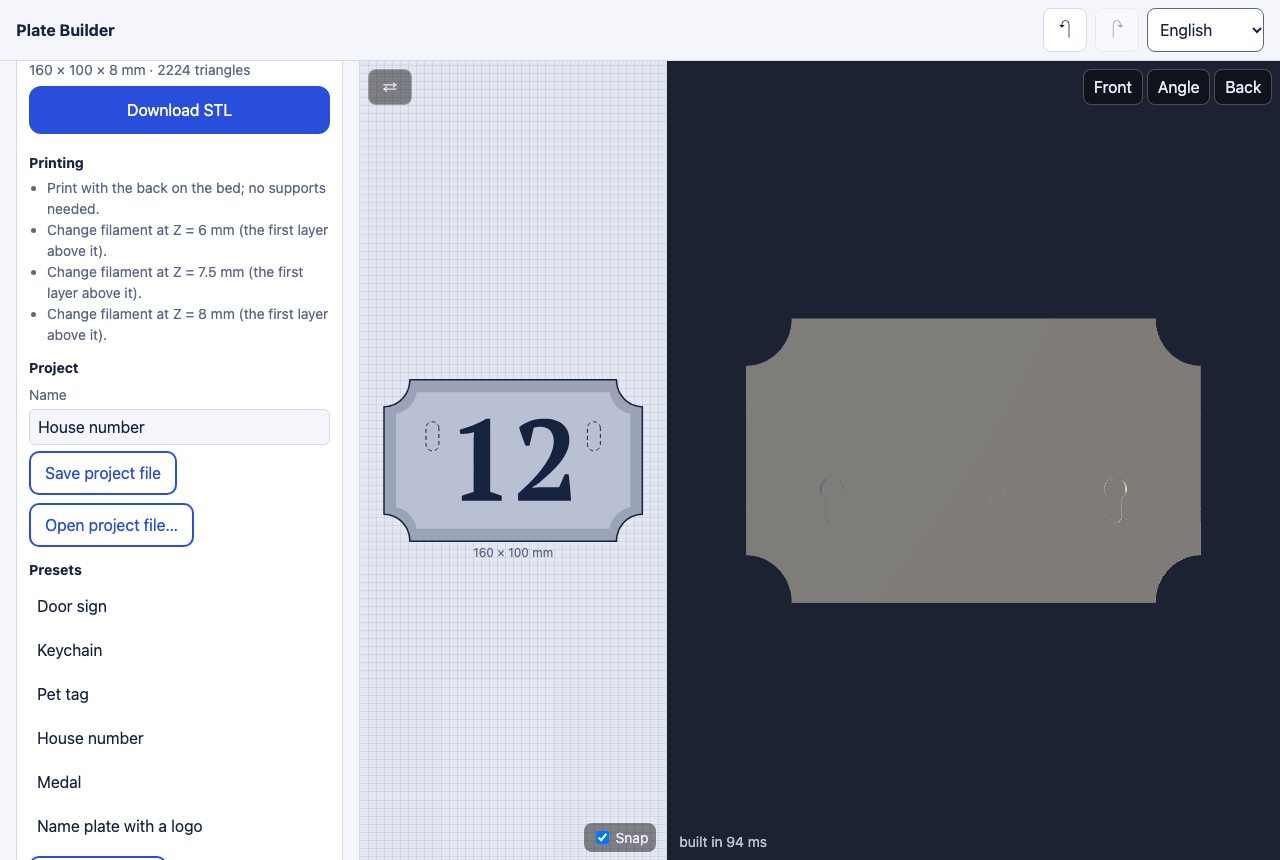
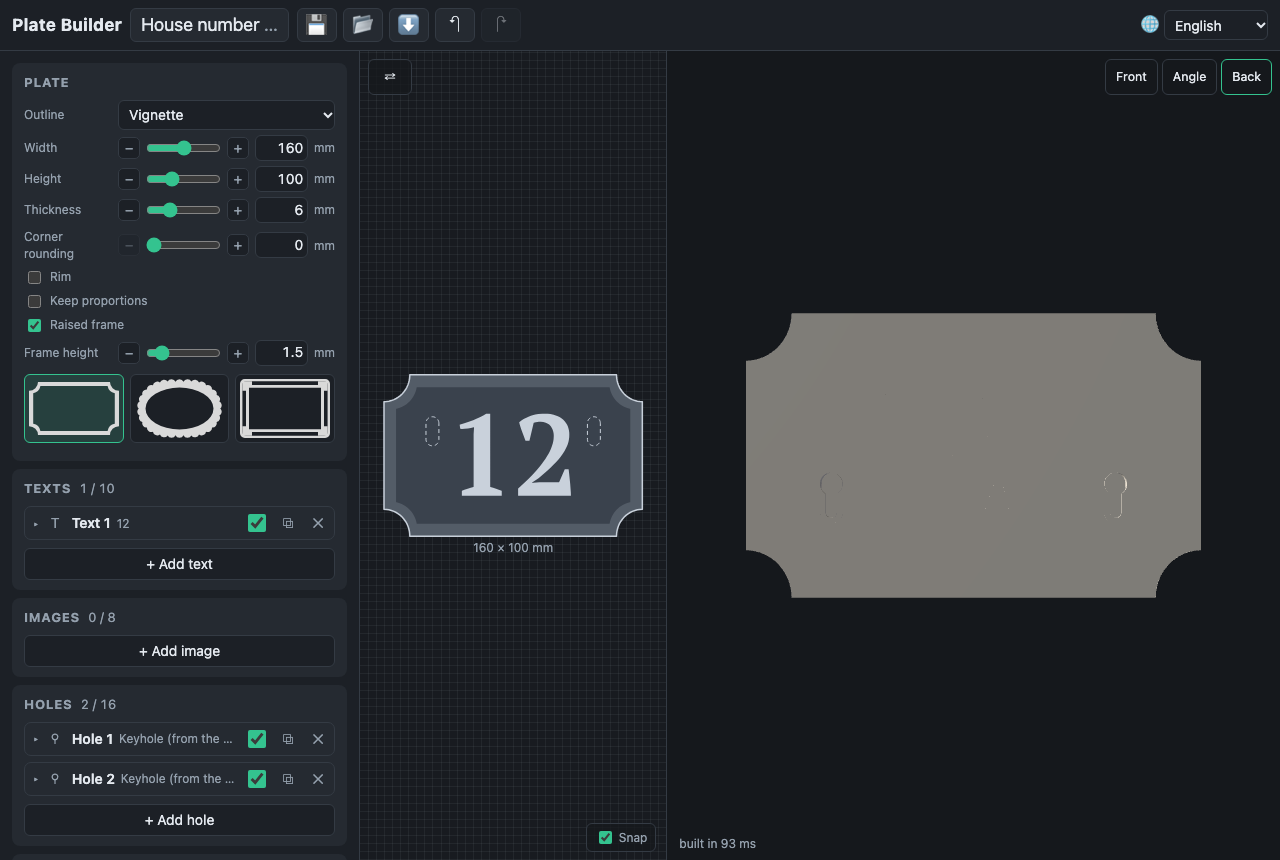
D6: docs for the new look
The spec's layout and panel, the guides (the top bar, the groups, − and +),
every picture re-shot with snap.mjs (the commands are in the plan),
AGENTS.md's layout lines, the plan's deviations.

diff --git a/plans/PLAN-DESIGN.md b/plans/PLAN-DESIGN.md
@@ -156,6 +156,21 @@ unit` in one grid line; the label column ~96 px (Russian and Ukrainian
   an element's controls in its group); every picture in `docs/images/`
   re-shot with `scripts/snap.mjs` (`--select` opens the element's card in
   its group; `--panel` scrolls to it).
+- The pictures, repeatable:
+
+  ```sh
+  node scripts/snap.mjs --out docs/images/door-sign.png --preset door-sign
+  node scripts/snap.mjs --out docs/images/export.png --preset door-sign --panel '#exportCard'
+  node scripts/snap.mjs --out docs/images/hebrew.png --preset door-sign --lang he
+  node scripts/snap.mjs --out docs/images/house-number.png --preset house-number
+  node scripts/snap.mjs --out docs/images/house-number-back.png --preset house-number --swap --camera back
+  node scripts/snap.mjs --out docs/images/keychain.png --preset keychain
+  node scripts/snap.mjs --out docs/images/medal.png --preset medal
+  node scripts/snap.mjs --out docs/images/medal-image.png --preset medal --select i1 --panel '.element-row.open'
+  node scripts/snap.mjs --out docs/images/name-plate-text.png --preset name-plate --select t1 --panel '.element-row.open'
+  node scripts/snap.mjs --out docs/images/pet-tag-phone.png --preset pet-tag --width 390 --height 844
+  ```
+
 - `AGENTS.md`: the layout lines for `elementsCard.ts`, `selectedCard.ts`,
   `presetList.ts`; this plan in the plans table. `plans/PLAN.md`:
   a line under Deviations pointing here.
@@ -170,3 +185,19 @@ unit` in one grid line; the label column ~96 px (Russian and Ukrainian
   drops − / + (the exact field already gives precision).
 - **Docs pictures** (D6): about ten shots; `snap.mjs` makes them
   repeatable, but each one is looked at.
+
+## Deviations
+
+- **D2**: on a phone the row's name stays above the slider, as the risk
+  foresaw — in one line the slider was ~40 px wide; the panel on a desktop
+  went back to 360 px so the slider keeps ~80 px. − and + do not repeat
+  while held (Case Constructor's do): the slider covers big moves.
+- **D4**: on a phone the top bar's first line is the brand and the
+  language, the second the project's name and the buttons — the long
+  Russian and Ukrainian brands left the name a letter wide otherwise. The
+  icon buttons' tooltips come from `data-i18n-label`, which already sets a
+  `title` it finds; no new attribute was needed.
+- **D5**: the catalog's black vignette silhouettes are shown inverted on
+  the dark tiles.
+- Not changed, found on the way: on a phone with the sheet closed the view
+  keeps 52 % of the height and leaves the rest empty, as before this work.

diff --git a/docs/spec.md b/docs/spec.md
@@ -248,6 +248,14 @@ from the base, keyhole channels are bridges).
 
 ### 7.1 Layout
 
+Case Constructor's look: a dark theme only, with an emerald accent; dense
+cards with uppercase titles.
+
+- **Top bar**: the brand; the project's name, which opens the **presets**
+  dialog (built-in and own presets; closed by ✕, Esc or a click beside
+  it; a pick closes it); 💾 save as preset, 📂 open a project file, ⬇ save
+  it, ↶ ↷ undo and redo; 🌐 the language. On a phone it takes two lines:
+  the brand and the language, then the name and the buttons.
 - **Phone (mobile first)**: the view fills the screen; the panel is a
   bottom sheet that can be pulled up, as in Case Constructor. A switch
   above the view toggles **2D / 3D**.
@@ -261,16 +269,24 @@ Cards, top to bottom:
 
 1. **Plate** — outline kind and its parameters, thickness, corner rounding,
    rim, vignette frame, crop padding.
-2. **Elements** — a list of images, texts and holes (an icon, a name, a
-   visibility toggle, duplicate, delete), buttons "Add image", "Add text",
-   "Add hole". Selecting in the list selects in the 2D view and the other
-   way round.
-3. **Selected element** — its parameters, with exact numeric fields for
-   position, size and rotation.
-4. **Warnings** — each with a "show" action that frames its spot in the 2D
+2. **Texts**, **Images**, **Holes** — a card per kind, as Case
+   Constructor's labels sit in their card. Its title shows the count and
+   the limit ("Texts 2 / 10"); in it a foldable card per element (an icon,
+   a name, a hint — a text's first line, a hole's kind —, a visibility
+   toggle, duplicate, delete) and "+ Add …" at the end, disabled at the
+   limit. The open card is the selected element's and holds its
+   parameters, with exact numeric fields for position, size and rotation.
+   A click on a closed card's head selects the element, on the open one
+   deselects it; selecting in the 2D view opens its card and brings it
+   into view.
+3. **Warnings** — each with a "show" action that frames its spot in the 2D
    view.
-5. **Export** — STL download, the print hints (§9), project file,
-   presets.
+4. **Export** — the project's name (it names the files), STL download, the
+   print hints (§9).
+
+A slider row is, from 1024 px, one line: the name, − slider +, the exact
+number and its unit; on a phone the name stands above. − and + move by the
+slider's step, one undo step a click.
 
 ### 7.3 2D view
 

diff --git a/docs/guide-projects.md b/docs/guide-projects.md
@@ -4,18 +4,21 @@ The plate you work on is kept in the browser and comes back on the next
 visit. If the browser refuses to keep it (its storage is full, or a private
 window), a banner says so: save the project file instead.
 
-- **Name** — the project's name; files are named after it.
-- **Save project file** / **Open project file…** — a `*.plate.json` file with
-  everything in it, pictures included. A file from another app, a broken one,
-  or one from a newer version is refused with a message. Opening a project
-  is one undo step: undo brings back the one that was open.
-- **Presets** — six built-in plates to start from: a door sign, a keychain, a
-  pet tag, a house number, a medal and a name plate with a logo. A first
-  visit opens the door sign. **Save as preset** keeps the current plate as
-  your own preset (rename it in its field, delete it with ✕). The preset
-  opened last says _changed_ once you edit it.
+- **Name** — the project's name, in the Export card; files are named after
+  it, and the top bar shows it.
+- **⬇ Save project file** / **📂 Open project file…** in the top bar — a
+  `*.plate.json` file with everything in it, pictures included. A file from
+  another app, a broken one, or one from a newer version is refused with a
+  message under the top bar. Opening a project is one undo step: undo brings
+  back the one that was open.
+- **Presets** — the project's name in the top bar opens them: six built-in
+  plates to start from: a door sign, a keychain, a pet tag, a house number,
+  a medal and a name plate with a logo. A first visit opens the door sign.
+  **💾 Save as preset** keeps the current plate as your own preset (rename it
+  in its field, delete it with ✕). The preset opened last says _changed_
+  once you edit it. ✕, Esc or a click beside the dialog closes it.
 
 ![Hebrew, right to left](images/hebrew.png)
 
 The interface speaks English, Russian, Ukrainian and Hebrew (right to left);
-it follows the browser's language until you pick one.
+it follows the browser's language until you pick one with 🌐 in the top bar.

diff --git a/AGENTS.md b/AGENTS.md
@@ -36,6 +36,7 @@ publishes `dist/` to GitHub Pages.
 | ----------------------- | ---------------------------------------- |
 | `plans/INITIAL-IDEA.md` | the idea as first written                |
 | `plans/PLAN.md`         | milestones M0…M10, decisions, deviations |
+| `plans/PLAN-DESIGN.md`  | Case Constructor's look, element groups  |
 
 ## Architectural invariants
 
@@ -126,8 +127,10 @@ browser (service worker, layout, workers) → a step in `scripts/smoke.mjs`.
 - `src/render/` — `view.ts` (what the app needs from the 3D view, types
   only), `scene.ts` (Three.js; checked by the smoke, not vitest).
 - `src/ui/` — `controls.ts` (declarative slider / number / select / check
-  rows), `plateCard.ts`, `selectedCard.ts` (the cards' controls),
-  `elementsCard.ts` (the element list), `warningsCard.ts`,
+  rows; − / + beside a slider), `plateCard.ts`, `selectedCard.ts` (the
+  cards' controls), `elementsCard.ts` (the element groups: a foldable card
+  per element, the selected one open), `presetList.ts` (the presets
+  dialog's list), `warningsCard.ts`,
   `imageImport.ts` (files → grayscale + alpha PNG, decoding, height
   pictures), `sheet.ts` (the panel as a bottom sheet on a phone), `fonts.ts` (bundled fonts, loaded on first use),
   `textRaster.ts` (a text block drawn at 10 px/mm), `svgRaster.ts`
@@ -142,7 +145,9 @@ browser (service worker, layout, workers) → a step in `scripts/smoke.mjs`.
   the user presets; every field sanitised, a refused write reported.
 - `src/sw-plugin.ts` — Vite plugin emitting `sw.js` that precaches the build;
   `src/pwa.ts` — its registration.
-- `src/style.css` — mobile first, logical properties, light and dark.
+- `src/style.css` — mobile first, logical properties; Case Constructor's dark
+  palette with an emerald accent (`--panel` is the theme colour, a test
+  keeps `index.html` and the manifest equal to it).
 - `public/` — manifest, icons (`icon.svg` is the source).
 - `docs/` — the spec, user and design docs.
 

diff --git a/docs/guide-editor.md b/docs/guide-editor.md
@@ -8,9 +8,11 @@ millimetre grid and the plate's size. The 3D view shows the solid as it will
 print. On a phone one shows at a time (the 2D / 3D switch); on a wider screen
 both, side by side, and ⇄ swaps their sizes.
 
-- **Select** an element with a tap or click; on a phone its card comes up.
-  A tap on empty space deselects (and on a phone hides the panel; **Settings**
-  brings it back).
+- **Select** an element with a tap or click: its card opens in its group
+  (Texts, Images, Holes) and comes into view; on a phone the panel comes up.
+  A click on a card's head in the panel selects too; on the open card's head
+  it deselects. A tap on empty space deselects (and on a phone hides the
+  panel; **⚙ Settings** brings it back).
 - **Drag** an element to move it; drag empty space to pan; the wheel or a
   pinch zooms.
 - The selected element's **corner handles** scale it (the opposite corner

diff --git a/plans/PLAN.md b/plans/PLAN.md
@@ -381,3 +381,5 @@ sheet on a phone, offline reload.
 - **M10**: the back camera hides the bed's grid, which lay over the back
   face, and has a light of its own from below, so keyholes read.
 - **M10**: `README.ru.md` is not written (optional in the conventions).
+- **After M10**: the interface took Case Constructor's look (dark only,
+  emerald) and the element groups; see `plans/PLAN-DESIGN.md`.

diff --git a/docs/guide-holes.md b/docs/guide-holes.md
@@ -1,6 +1,7 @@
 # Holes
 
-**Add hole** puts a round hole in the middle; its card changes the kind.
+**+ Add hole** in the Holes card puts a round hole in the middle; its card
+changes the kind.
 
 | Kind                    | Sizes                          | What it is for                        |
 | ----------------------- | ------------------------------ | ------------------------------------- |

diff --git a/docs/guide-texts.md b/docs/guide-texts.md
@@ -2,7 +2,7 @@
 
 ![A text's card](images/name-plate-text.png)
 
-**Add text** puts a block of up to 10 lines and 300 characters on the plate.
+**+ Add text** in the Texts card puts a block of up to 10 lines and 300 characters on the plate.
 
 - **Font** — Rubik (Latin, Cyrillic, Hebrew), Oswald, PT Serif, Comfortaa,
   Marck Script (Latin, Cyrillic) and Frank Ruhl Libre (Latin, Hebrew). They

diff --git a/docs/guide-images.md b/docs/guide-images.md
@@ -2,7 +2,7 @@
 
 ![The medal: a star image, an arc text, a rim](images/medal.png)
 
-**Add image** takes a PNG, JPEG, WebP, GIF (its first frame) or SVG file up to
+**+ Add image** in the Images card takes a PNG, JPEG, WebP, GIF (its first frame) or SVG file up to
 20 MB. It is kept in the project as grayscale with transparency, at most
 512 pixels on its long side.
 

diff --git a/docs/guide-plate.md b/docs/guide-plate.md
@@ -3,7 +3,8 @@
 ![The door sign preset](images/door-sign.png)
 
 The **Plate** card sets the plate's outline and its base. Everything is in
-millimetres; the plate prints with its back on the bed.
+millimetres; the plate prints with its back on the bed. Each slider has −
+and + beside it for one step at a time, and a field for an exact number.
 
 ## Outline
 
